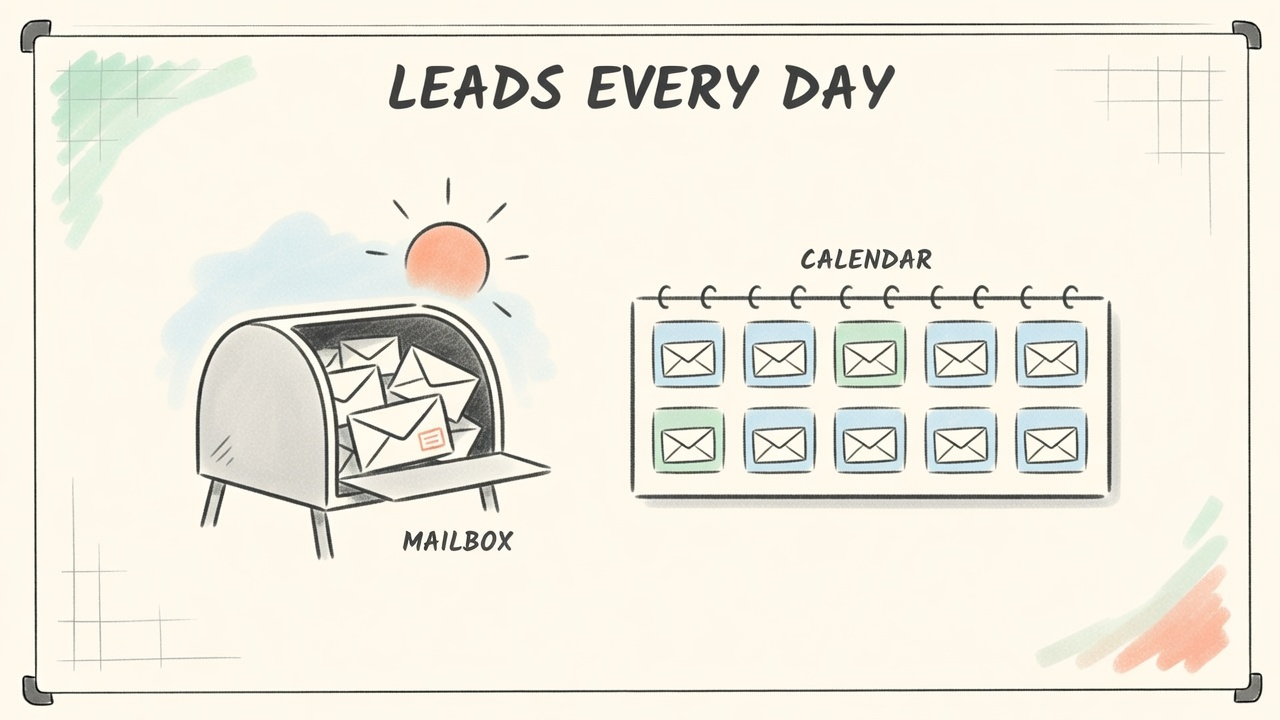
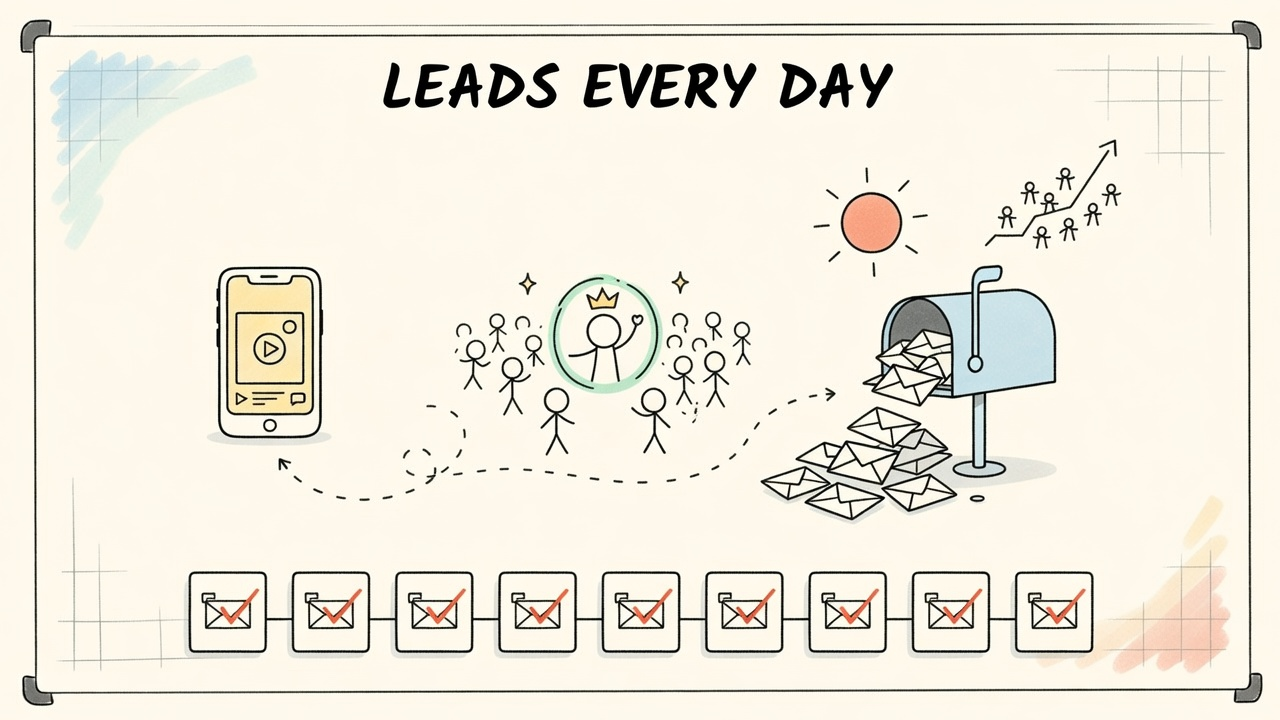
example: the promise hero reads as a journey, phone to crowd to overflowing mailbox

diff --git a/skills/simple-artifact/example/index.html b/skills/simple-artifact/example/index.html
@@ -128,7 +128,7 @@ a.pack-link:hover{color:var(--accent)}
 <div class="theme" role="group" aria-label="Theme"><button data-t="auto">Auto</button><button data-t="light">Light</button><button data-t="dark">Dark</button></div>
 <div class="wrap">
 <header><div class="eyebrow">Video brief · How to get leads every day</div><h1>Leads Every Day</h1><p class="lede">Why most businesses have no leads, why the audience comes before the product, and the one lead source to start with today: short form content.</p><div class="status"><span class="chip ok">Promise</span><span class="chip crit">Problem</span><span class="chip">Value</span><span class="chip warn">Apply today</span><span class="chip">Summary</span><span class="chip">Call to action</span></div><div class="flow"><a href="#promise"><b>1</b>Promise</a><a href="#problem"><b>2</b>Problem</a><a href="#value"><b>3</b>Value</a><a href="#apply"><b>4</b>Apply today</a><a href="#summary"><b>5</b>Summary</a><a href="#cta"><b>6</b>Call to action</a></div></header>
-<section class="part" id="promise"><div class="eyebrow">1 · Promise</div><h2>Stick with this and you leave with</h2><figure><img src="img/s00.jpg" alt="Sketch of a mailbox overflowing with envelopes beside a calendar where every day holds an envelope, titled LEADS EVERY DAY" loading="lazy"></figure><div class="key ok">If you are not getting leads every day, this is for you.</div><ul class="cues"><li>Why you have no leads, and the one thing most advice gets backwards.</li><li>The audience-first shift and how to find the best kind of leads: a premium offer.</li><li>A simple short form system that brings leads every day, from one platform.</li><li>Two real results from this exact approach: 8k followers in 8 months, and a 300k sale.</li></ul><div class="loop"><span class="q">?</span><p>What is the hidden cost of no leads?</p></div></section>
+<section class="part" id="promise"><div class="eyebrow">1 · Promise</div><h2>Stick with this and you leave with</h2><figure><img src="img/s00.jpg" alt="Sketch of a journey from a phone showing a short video, past a crowd around one crowned figure, to a mailbox overflowing with envelopes under a rising sun, with a calendar strip of ticked envelopes below and a rising arrow of people icons, titled LEADS EVERY DAY" loading="lazy"></figure><div class="key ok">If you are not getting leads every day, this is for you.</div><ul class="cues"><li>Why you have no leads, and the one thing most advice gets backwards.</li><li>The audience-first shift and how to find the best kind of leads: a premium offer.</li><li>A simple short form system that brings leads every day, from one platform.</li><li>Two real results from this exact approach: 8k followers in 8 months, and a 300k sale.</li></ul><div class="loop"><span class="q">?</span><p>What is the hidden cost of no leads?</p></div></section>
 <section class="part" id="problem"><div class="eyebrow">2 · Problem</div><h2>Most businesses lack leads, and the usual advice makes it worse</h2></section>
 <section class="beat"><div class="n">2.1</div><h3>The number one problem is leads, not product</h3><figure><img src="img/s01.jpg" alt="Sketch of an open storefront with an empty street and a tumbleweed, titled NO LEADS" loading="lazy"></figure><div class="vs"><div class="crowd"><b>What the crowd says</b><ul class=""><li>Start by designing the product or service.</li><li>Get it polished, then they will come.</li></ul></div><div class="me"><b>What I say</b><ul class=""><li>Dead wrong. Build first is a trap.</li><li>Most businesses&#x27; number one problem: no leads.</li></ul></div></div></section>
 <section class="beat"><div class="n">2.2</div><h3>Build first is a trap</h3><figure><img src="img/s02.jpg" alt="Sketch of a person happily building inside a mousetrap-shaped cage while a crowd waits down the path, titled BUILD TRAP" loading="lazy"></figure><ul class="cues"><li>Building feels good. Dopamine hits every time you ship a piece.</li><li>That good feeling becomes procrastination. It keeps you from leads and sales.</li></ul><div class="key crit">Building is the most productive-looking way to avoid selling.</div><div class="loop"><span class="q">?</span><p>What did I do instead that sold for 300k?</p></div></section>
